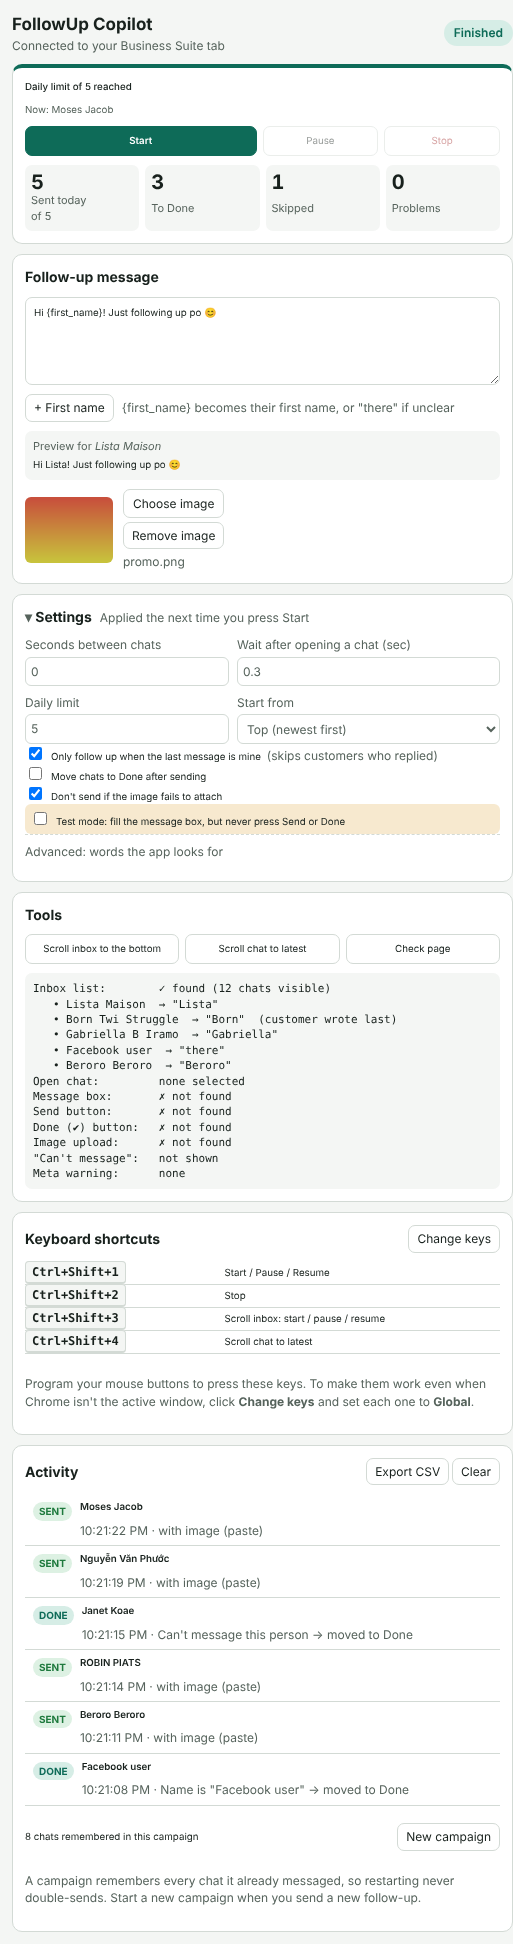
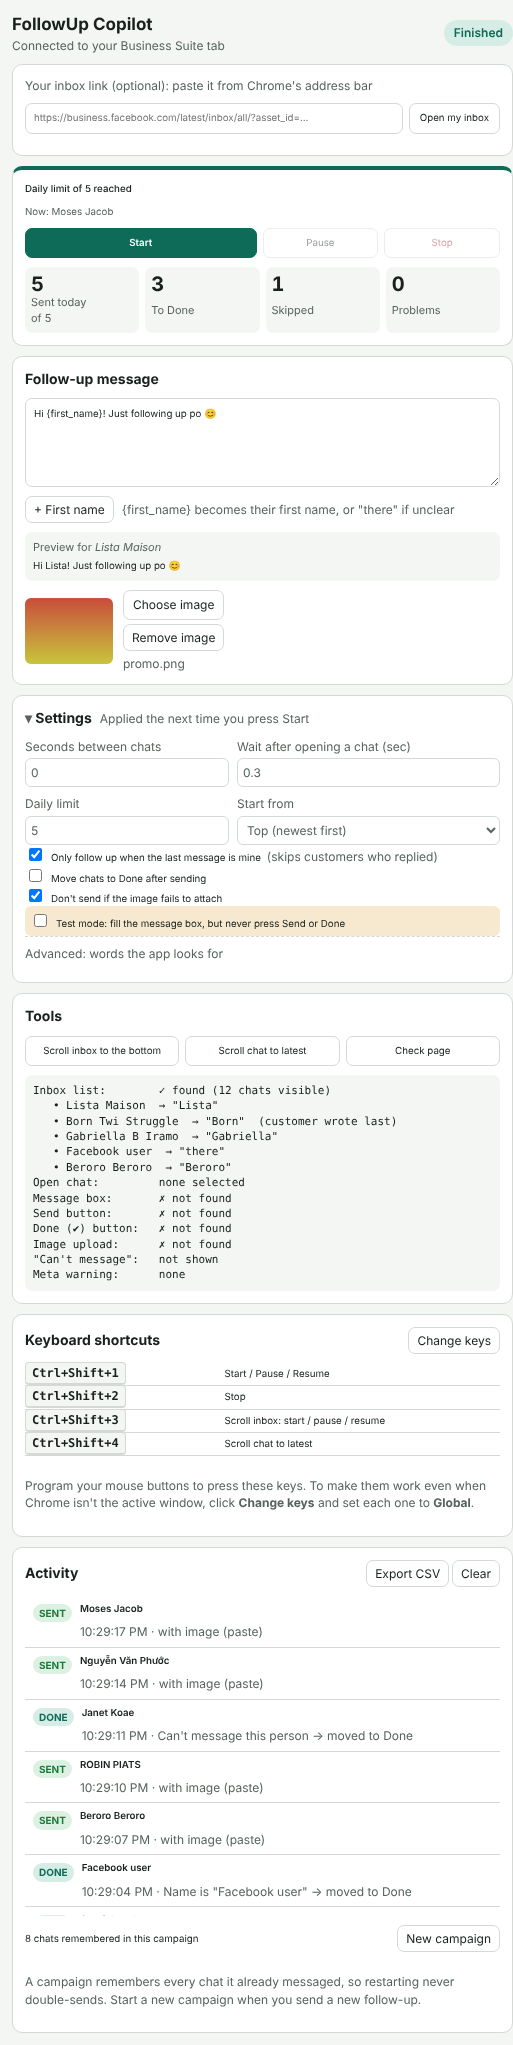
Optional inbox link, "Open my inbox", and Ready status
- Paste your Business Suite inbox link (optional). "Open my inbox" (extension)
  and "Open Chrome" (desktop) go straight to it.
- The link's Page id (asset_id) is checked before starting, so a run never
  starts on a different Facebook Page's inbox by mistake.
- The status badge says "Ready" instead of "Idle" once connected.

Claude-Session: https://claude.ai/code/session_01AbmNfk2RbeYzTEgTF7NAcj

diff --git a/extension/sidepanel.js b/extension/sidepanel.js
@@ -8,7 +8,7 @@ const DEF = {
   stopTexts: ["temporarily blocked", "temporarily restricted", "You can't use this feature right now", "We limit how often",
     "Your account has been restricted", "account is restricted", "Confirm your identity", "Security check", "Action blocked"],
   order: "top", onlyIfLastFromMe: true, moveSentToDone: false, testMode: false, imageRequired: true,
-  stepDelayMs: 1200, betweenChatsSec: 8, dailyCap: 300,
+  stepDelayMs: 1200, betweenChatsSec: 8, dailyCap: 300, inboxUrl: "",
 };
 const BAD = new Set(["FAILED", "REVIEW", "UNKNOWN"]);
 let settings = {}, template = {}, tabId = null, state = "idle", scrollState = "idle";
@@ -30,6 +30,8 @@ const saveTemplate = () => chrome.storage.local.set({ template });
 const lines = (v) => v.split("\n").map((s) => s.trim()).filter(Boolean);
 function fillForm() {
   $("tplText").value = template.text || "";
+  $("inboxUrl").value = settings.inboxUrl || "";
+  showInboxMsg();
   $("sBetween").value = settings.betweenChatsSec;
   $("sStep").value = settings.stepDelayMs / 1000;
   $("sCap").value = settings.dailyCap;
@@ -124,13 +126,13 @@ function watchConnection() {
   reconnectTimer = setInterval(async () => {
     if (state !== "offline") { clearInterval(reconnectTimer); return; }
     const r = await send("ping");
-    if (r.ok) { clearInterval(reconnectTimer); setState(r.state !== "idle" ? r.state : "idle", r.state !== "idle" && r.last ? r.last.reason : "Connected. Press Start when your Inbox is open."); }
+    if (r.ok) { clearInterval(reconnectTimer); setState(r.state !== "idle" ? r.state : "idle", r.state !== "idle" && r.last ? r.last.reason : "Connected. Write your message, then press Start."); }
   }, 3000);
 }
 
 function setState(s, reason, current) {
   state = s;
-  const label = { idle: "Idle", running: "Running", paused: "Paused", stopped: "Stopped", finished: "Finished", offline: "Not connected" }[s] || s;
+  const label = { idle: "Ready", running: "Running", paused: "Paused", stopped: "Stopped", finished: "Finished", offline: "Not connected" }[s] || s;
   $("pill").textContent = label;
   $("pill").className = "pill " + s;
   if (reason !== undefined) $("reason").textContent = reason || (s === "running" ? "Working through your inbox…" : "");
@@ -181,6 +183,30 @@ chrome.runtime.onMessage.addListener((msg) => {
 });
 chrome.storage.onChanged.addListener((ch) => {
   if (ch.campaign) $("remembered").textContent = `${(ch.campaign.newValue && ch.campaign.newValue.doneIds.length) || 0} chats remembered in this campaign`;
+});
+
+// ---------- your inbox link ----------
+function showInboxMsg(text, kind) {
+  const el = $("inboxMsg");
+  const id = settings.inboxUrl ? assetIdOf(settings.inboxUrl) : null;
+  el.textContent = text || (settings.inboxUrl ? (id ? `Saved. Only runs on this Page (id ${id}).` : "Saved.") : "");
+  el.className = "hint " + (kind || (settings.inboxUrl ? "good" : ""));
+}
+$("inboxUrl").addEventListener("change", () => {
+  const c = checkInboxUrl($("inboxUrl").value);
+  if (!c.ok) { showInboxMsg(c.message, "bad"); return; }
+  settings.inboxUrl = c.url;
+  $("inboxUrl").value = c.url;
+  saveSettings();
+  showInboxMsg();
+});
+$("openInbox").addEventListener("click", async () => {
+  const c = checkInboxUrl($("inboxUrl").value);
+  if (!c.ok) { showInboxMsg(c.message, "bad"); return; }
+  if (c.url !== settings.inboxUrl) { settings.inboxUrl = c.url; saveSettings(); showInboxMsg(); }
+  await openInbox(c.url);
+  setState("offline", "Opening your inbox…");
+  watchConnection();
 });
 
 // ---------- buttons ----------
@@ -287,4 +313,5 @@ $("newCampaign").addEventListener("click", () => ask("Start a new campaign? The 
   const r = await send("ping");
   if (r.ok && r.state !== "idle") setState(r.state, r.last && r.last.reason, r.last && r.last.current);
   else if (!r.ok) { setState("offline", r.message); watchConnection(); }
+  else setState("idle", "Connected. Write your message, then press Start.");
 })();

diff --git a/extension/connect.js b/extension/connect.js
@@ -3,16 +3,59 @@
 // extension into it, so this loads it on the spot instead of asking for a page reload.
 const INBOX_URLS = ["https://business.facebook.com/*", "https://www.facebook.com/latest/*"];
 
-async function findInboxTab() {
+const DEFAULT_INBOX = "https://business.facebook.com/latest/inbox/all/";
+const START_CMDS = ["start", "toggleRun"];
+
+// The Page id in a Business Suite link (asset_id=…), or null.
+function assetIdOf(url) {
+  try { return new URL(url).searchParams.get("asset_id"); } catch (_) { return null; }
+}
+// Checks a pasted inbox link. Returns { ok, url, assetId, message }.
+function checkInboxUrl(text) {
+  const t = String(text || "").trim();
+  if (!t) return { ok: true, url: "", assetId: null, message: "" };
+  let u;
+  try { u = new URL(t); } catch (_) { return { ok: false, message: "That isn't a web link. Copy it from Chrome's address bar while your inbox is open." }; }
+  const host = u.hostname.toLowerCase();
+  if (!(host === "business.facebook.com" || (host === "www.facebook.com" && u.pathname.startsWith("/latest")))) {
+    return { ok: false, message: "That link isn't Business Suite. It should start with https://business.facebook.com/latest/inbox" };
+  }
+  return { ok: true, url: u.href, assetId: u.searchParams.get("asset_id"), message: "" };
+}
+async function savedAssetId() {
+  const { settings } = await chrome.storage.local.get("settings");
+  return settings && settings.inboxUrl ? assetIdOf(settings.inboxUrl) : null;
+}
+
+async function findInboxTab(assetId) {
   const tabs = await chrome.tabs.query({ url: INBOX_URLS });
   if (!tabs.length) return null;
   const inbox = (t) => /\/inbox/.test(t.url || "");
-  return tabs.find((t) => t.active && inbox(t)) || tabs.find(inbox) || tabs.find((t) => t.active) || tabs[0];
+  const mine = (t) => assetId && assetIdOf(t.url) === assetId;
+  return tabs.find((t) => t.active && inbox(t) && mine(t)) || tabs.find((t) => inbox(t) && mine(t)) ||
+    tabs.find((t) => t.active && inbox(t)) || tabs.find(inbox) || tabs.find((t) => t.active) || tabs[0];
+}
+
+// Brings the saved inbox (or any open inbox) to the front, opening it if needed.
+async function openInbox(url) {
+  const assetId = url ? assetIdOf(url) : null;
+  const tab = await findInboxTab(assetId);
+  if (tab && /\/inbox/.test(tab.url || "") && (!assetId || assetIdOf(tab.url) === assetId)) {
+    await chrome.tabs.update(tab.id, { active: true });
+    await chrome.windows.update(tab.windowId, { focused: true });
+    return tab;
+  }
+  return chrome.tabs.create({ url: url || DEFAULT_INBOX, active: true });
 }
 
 async function sendToInbox(cmd) {
-  const tab = await findInboxTab();
-  if (!tab) return { ok: false, noTab: true, message: "Open Business Suite → Inbox in Chrome. The panel connects by itself." };
+  const assetId = await savedAssetId();
+  const tab = await findInboxTab(assetId);
+  if (!tab) return { ok: false, noTab: true, message: "Open Business Suite → Inbox in Chrome (or press “Open my inbox”). The panel connects by itself." };
+  const tabAsset = assetIdOf(tab.url);
+  if (START_CMDS.includes(cmd) && assetId && tabAsset && tabAsset !== assetId) {
+    return { ok: false, tab, wrongPage: true, message: `The open inbox is a different Facebook Page (id ${tabAsset}) than your saved link (id ${assetId}). Press “Open my inbox” first.` };
+  }
   const msg = { to: "content", cmd };
   try {
     return Object.assign({ tab }, await chrome.tabs.sendMessage(tab.id, msg));

diff --git a/extension/sidepanel.html b/extension/sidepanel.html
@@ -12,8 +12,17 @@
     <h1>FollowUp Copilot</h1>
     <div id="where" class="sub">Looking for your Business Suite tab…</div>
   </div>
-  <span id="pill" class="pill idle">Idle</span>
+  <span id="pill" class="pill idle">Ready</span>
 </header>
+
+<section class="card">
+  <label for="inboxUrl" class="hint">Your inbox link (optional): paste it from Chrome's address bar</label>
+  <div class="inboxrow">
+    <input id="inboxUrl" type="url" placeholder="https://business.facebook.com/latest/inbox/all/?asset_id=…" spellcheck="false">
+    <button id="openInbox">Open my inbox</button>
+  </div>
+  <div id="inboxMsg" class="hint"></div>
+</section>
 
 <section class="card run">
   <div id="reason" class="reason">Press Start when your Inbox is open.</div>

diff --git a/extension/sidepanel.css b/extension/sidepanel.css
@@ -87,3 +87,8 @@ details[open] > summary h2::before { content: "▾ "; }
 .keys td { padding: 4px 0; border-bottom: 1px solid var(--line); }
 .keys td:first-child { width: 42%; }
 .keys kbd { font: 600 12px/1 Consolas, monospace; background: var(--bg); border: 1px solid var(--line); border-bottom-width: 2px; border-radius: 4px; padding: 3px 6px; white-space: nowrap; }
+.inboxrow { display: flex; gap: 6px; }
+.inboxrow input { flex: 1; min-width: 0; border: 1px solid var(--line); border-radius: 7px; padding: 6px 8px; background: var(--surface); }
+.pill.idle { background: var(--good-soft); color: var(--good); }
+#inboxMsg.bad { color: var(--bad); }
+#inboxMsg.good { color: var(--good); }

diff --git a/desktop/followup_desk.py b/desktop/followup_desk.py
@@ -9,14 +9,14 @@ import sys
 import tkinter as tk
 from tkinter import filedialog, messagebox, ttk
 
-from bridge import DEFAULT_SETTINGS, Controller, Store
+from bridge import DEFAULT_SETTINGS, INBOX_URL, Controller, Store, asset_id, check_inbox_url
 from hotkeys import Hotkeys, describe
 
 C = {"bg": "#f4f6f4", "surface": "#ffffff", "line": "#d3dad5", "fg": "#18211d", "muted": "#56635c",
      "accent": "#0e6b58", "accent_soft": "#d6ede6", "good": "#1f7a3e", "good_soft": "#ddf1e3",
      "warn": "#9a6212", "warn_soft": "#f7e9cf", "bad": "#a83636", "bad_soft": "#f6dcdc"}
 FONT = "Segoe UI" if sys.platform == "win32" else "DejaVu Sans"
-STATE_LOOK = {"idle": ("Idle", C["line"], C["fg"]), "running": ("Running", C["good_soft"], C["good"]),
+STATE_LOOK = {"idle": ("Idle", C["line"], C["fg"]), "ready": ("Ready", C["good_soft"], C["good"]), "running": ("Running", C["good_soft"], C["good"]),
               "paused": ("Paused", C["warn_soft"], C["warn"]), "stopped": ("Stopped", C["accent_soft"], C["accent"]),
               "finished": ("Finished", C["accent_soft"], C["accent"]), "error": ("Problem", C["bad_soft"], C["bad"])}
 
@@ -166,6 +166,19 @@ class App:
         self.img_name.pack(anchor="w", pady=4)
         self._show_image()
         self._on_text()
+
+        ttk.Separator(card).pack(fill="x", pady=(12, 8))
+        ttk.Label(card, text="Your inbox link (optional)", style="H.TLabel").pack(anchor="w")
+        ttk.Label(card, text="Paste it from Chrome's address bar. “Open Chrome” then goes straight to it.",
+                  style="Muted.TLabel").pack(anchor="w")
+        self.v_inbox = tk.StringVar(value=self.s.get("inboxUrl", ""))
+        e = ttk.Entry(card, textvariable=self.v_inbox)
+        e.pack(fill="x", pady=(4, 2))
+        e.bind("<FocusOut>", lambda _e: self._save_inbox_url())
+        e.bind("<Return>", lambda _e: self._save_inbox_url())
+        self.inbox_msg = ttk.Label(card, text="", style="Muted.TLabel", wraplength=520)
+        self.inbox_msg.pack(anchor="w")
+        self._save_inbox_url(quiet=True)
 
     def _build_settings(self, parent):
         card = self._card(parent, "Settings", "applied when you press Start")
@@ -344,9 +357,25 @@ class App:
             self.events.put(("result", (label, err, None if err else f.result(), done)))
         fut.add_done_callback(cb)
 
+    def _save_inbox_url(self, quiet=False):
+        url, err = check_inbox_url(self.v_inbox.get())
+        if err:
+            self.inbox_msg.config(text=err, foreground=C["bad"])
+            return False
+        self.s["inboxUrl"] = url
+        self.v_inbox.set(url)
+        if not quiet:
+            self.store.save_settings()
+        pid = asset_id(url)
+        self.inbox_msg.config(text=(f"Saved. Only runs on this Page (id {pid})." if pid else "Saved.") if url else "",
+                              foreground=C["good"])
+        return True
+
     def _open(self):
+        if not self._save_inbox_url():
+            return
         self.reason.config(text="Opening Chrome… If you see a login page, log in to Facebook once. This window remembers you after that.")
-        self._call(self.ctl.open_browser(), label="open")
+        self._call(self.ctl.open_browser(url=self.s.get("inboxUrl") or INBOX_URL), label="open")
 
     def _start(self):
         try:
@@ -492,7 +521,8 @@ class App:
                     self._hotkey(data)
                 elif kind == "browser":
                     if data == "open":
-                        self.reason.config(text="Chrome is open. Log in if asked, go to Inbox, then press Start. Tip: try Test mode first.")
+                        if self.state not in ("running", "paused"):
+                            self._set_state({"state": "ready", "reason": "Chrome is open. Log in if asked, check that your Inbox shows, then press Start. Tip: try Test mode first."})
                     else:
                         self._set_state({"state": "idle", "reason": "Chrome was closed. Press “Open Chrome” to continue."})
                 elif kind == "result":
@@ -508,7 +538,7 @@ class App:
     def _set_state(self, st):
         s = st.get("state", "idle")
         if s in STATE_LOOK:
-            self.state = s if s != "error" else "idle"
+            self.state = s if s not in ("error", "ready") else "idle"
             text, bg, fg = STATE_LOOK[s]
             self.pill.config(text=text, bg=bg, fg=fg)
         if st.get("reason") or s != "running":

diff --git a/desktop/bridge.py b/desktop/bridge.py
@@ -25,7 +25,32 @@ ENGINE_KEYS = [
     "fallbackName", "blockedTexts", "excludeNames", "stopTexts", "order", "onlyIfLastFromMe",
     "moveSentToDone", "testMode", "stepDelayMs", "betweenChatsSec", "dailyCap", "imageRequired",
 ]
+def asset_id(url):
+    """The Facebook Page id in a Business Suite link (asset_id=…), or None."""
+    from urllib.parse import parse_qs, urlparse
+    try:
+        return (parse_qs(urlparse(url).query).get("asset_id") or [None])[0]
+    except ValueError:
+        return None
+
+
+def check_inbox_url(text):
+    """A pasted inbox link -> (cleaned link or "", error message or "")."""
+    from urllib.parse import urlparse
+    t = (text or "").strip()
+    if not t:
+        return "", ""
+    u = urlparse(t)
+    if u.scheme not in ("http", "https") or not u.netloc:
+        return "", "That isn't a web link. Copy it from Chrome's address bar while your inbox is open."
+    host = u.netloc.lower()
+    if not (host == "business.facebook.com" or (host == "www.facebook.com" and u.path.startswith("/latest"))):
+        return "", "That link isn't Business Suite. It should start with https://business.facebook.com/latest/inbox"
+    return t, ""
+
+
 DEFAULT_SETTINGS = {
+    "inboxUrl": "",
     "template": "Hi {first_name}! Just following up po 😊",
     "image_path": "",
     "fallbackName": "there",
@@ -196,8 +221,11 @@ class Controller:
     async def _open(self, url=INBOX_URL, channel="chrome", headless=False, viewport=None, setup=None):
         from playwright.async_api import async_playwright
         if self.ctx:
-            page = await self._inbox_page()
+            page = self.page or (self.ctx.pages[0] if self.ctx.pages else await self.ctx.new_page())
+            if url and asset_id(url) and asset_id(page.url) != asset_id(url):
+                await page.goto(url)
             await page.bring_to_front()
+            self._emit("browser", "open")
             return "already open"
         self.pw = await async_playwright().start()
         profile = self.store.dir / "chrome-profile"
@@ -287,6 +315,10 @@ class Controller:
         page = await self._inbox_page()
         if "/inbox" not in page.url:
             raise RuntimeError("Open the Inbox in Business Suite first.")
+        saved, here = asset_id(self.store.settings.get("inboxUrl", "")), asset_id(page.url)
+        if saved and here and saved != here:
+            raise RuntimeError(f"The open inbox is a different Facebook Page (id {here}) than your saved link (id {saved}). "
+                               "Press “Open Chrome” to go to your saved inbox.")
         if not self.store.settings.get("template", "").strip():
             raise RuntimeError("Write your follow-up message first.")
         self.done_ids = set(self.store.campaign["doneIds"])

diff --git a/tests/test_extension.py b/tests/test_extension.py
@@ -144,3 +144,42 @@ def test_connects_by_itself_without_reloading_the_tab(pw):
             assert sw.evaluate("handleCommand('toggle-scroll')")["ok"]
         finally:
             ctx.close()
+
+
+def test_inbox_link_opens_my_page_and_blocks_other_pages(ext):
+    inbox, panel, sw = ext
+    assert panel.inner_text("#pill") == "Ready"
+    panel.fill("#tplText", "Hi {first_name}!")
+    panel.fill("#inboxUrl", "facebook dot com")
+    panel.dispatch_event("#inboxUrl", "change")
+    assert "isn't a web link" in panel.inner_text("#inboxMsg")
+    mine = "https://business.facebook.com/latest/inbox/all/?nav_ref=manage_page_ap_plus_inbox_message_button&asset_id=999&business_id="
+    panel.fill("#inboxUrl", mine)
+    panel.dispatch_event("#inboxUrl", "change")
+    assert "id 999" in panel.inner_text("#inboxMsg")
+    panel.screenshot(path=str(SHOTS / "option-a-inbox-link.png"), clip={"x": 0, "y": 0, "width": 380, "height": 300})
+
+    # The open tab is Page 1, the saved link is Page 999: Start refuses
+    panel.click("#start")
+    panel.wait_for_selector("#reason:has-text('different Facebook Page')")
+    assert inbox.evaluate("__mock.sent.length") == 0
+
+    # "Open my inbox" opens the saved Page; then Start works there
+    with panel.context.expect_page() as new_tab:
+        panel.click("#openInbox")
+    mine_tab = new_tab.value
+    opened = sw.evaluate("chrome.tabs.query({}).then((ts) => ts.map((t) => t.pendingUrl || t.url))")
+    assert mine in opened  # Chrome opened exactly the saved link
+    # The test browser can't serve the practice inbox to a tab the extension opened itself,
+    # so load it again (a real browser just shows your inbox).
+    mine_tab.goto(mine)
+    mine_tab.wait_for_function("window.__mock && document.querySelectorAll('.row').length > 5")
+    panel.wait_for_selector("#pill.idle", timeout=15_000)
+    panel.click("#settingsBox summary")
+    panel.fill("#sCap", "1")
+    panel.dispatch_event("#sCap", "change")
+    panel.fill("#sStep", "0.3")
+    panel.dispatch_event("#sStep", "change")
+    panel.click("#start")
+    panel.wait_for_selector("#pill.finished", timeout=60_000)
+    assert mine_tab.evaluate("__mock.sent.length") == 1 and inbox.evaluate("__mock.sent.length") == 0

diff --git a/tests/test_desktop.py b/tests/test_desktop.py
@@ -104,3 +104,18 @@ def test_desktop_scroll_inbox_pause_resume(app):
     assert "paused" in states and states[-1] == "done"
     done = [d for k, d in events if k == "scroll"][-1]
     assert done["reachedEnd"] and done["rows"] == 22
+
+
+def test_inbox_link_rules(app):
+    from bridge import asset_id, check_inbox_url
+    link = "https://business.facebook.com/latest/inbox/all/?nav_ref=manage_page_ap_plus_inbox_message_button&asset_id=101270579420124&business_id="
+    assert check_inbox_url(link) == (link, "") and asset_id(link) == "101270579420124"
+    assert check_inbox_url("  ") == ("", "")
+    assert "isn't Business Suite" in check_inbox_url("https://example.com/inbox")[1]
+    assert "isn't a web link" in check_inbox_url("my inbox")[1]
+    # Start refuses when the open inbox is another Page than the saved link
+    c, store, _ = app
+    store.settings["inboxUrl"] = link
+    with pytest.raises(RuntimeError, match="different Facebook Page"):
+        c.start().result(10)
+    assert page_eval(c, "__mock.sent.length") == 0

diff --git a/README.md b/README.md
@@ -59,6 +59,9 @@ Safety rules built into both versions:
 4. Click **Load unpacked** and choose the **`extension`** folder.
 5. Pin the extension (puzzle icon → pin **FollowUp Copilot**).
 6. Open Business Suite → **Inbox** and click the extension icon. The side panel opens and connects by itself.
+7. (Optional) Paste your inbox link from Chrome's address bar into **Your inbox link**. Then
+   **Open my inbox** takes you straight there, and the app refuses to run on a different Facebook Page
+   by mistake. The badge at the top says **Ready** when it's connected.
 
 ## Option B: install the Windows app
 
@@ -67,6 +70,7 @@ Safety rules built into both versions:
 3. In the `desktop` folder, double-click **`install.bat`** (one time only).
 4. Double-click **`run.bat`** to start FollowUp Desk.
 5. Press **1 Open Chrome**. The first time, log in to Facebook in that Chrome window. It remembers you after that.
+6. (Optional) Paste your inbox link under **Message → Your inbox link**. **Open Chrome** then goes straight to it.
 
 (Optional) `build_exe.bat` makes a single `FollowUpDesk.exe`.
 
